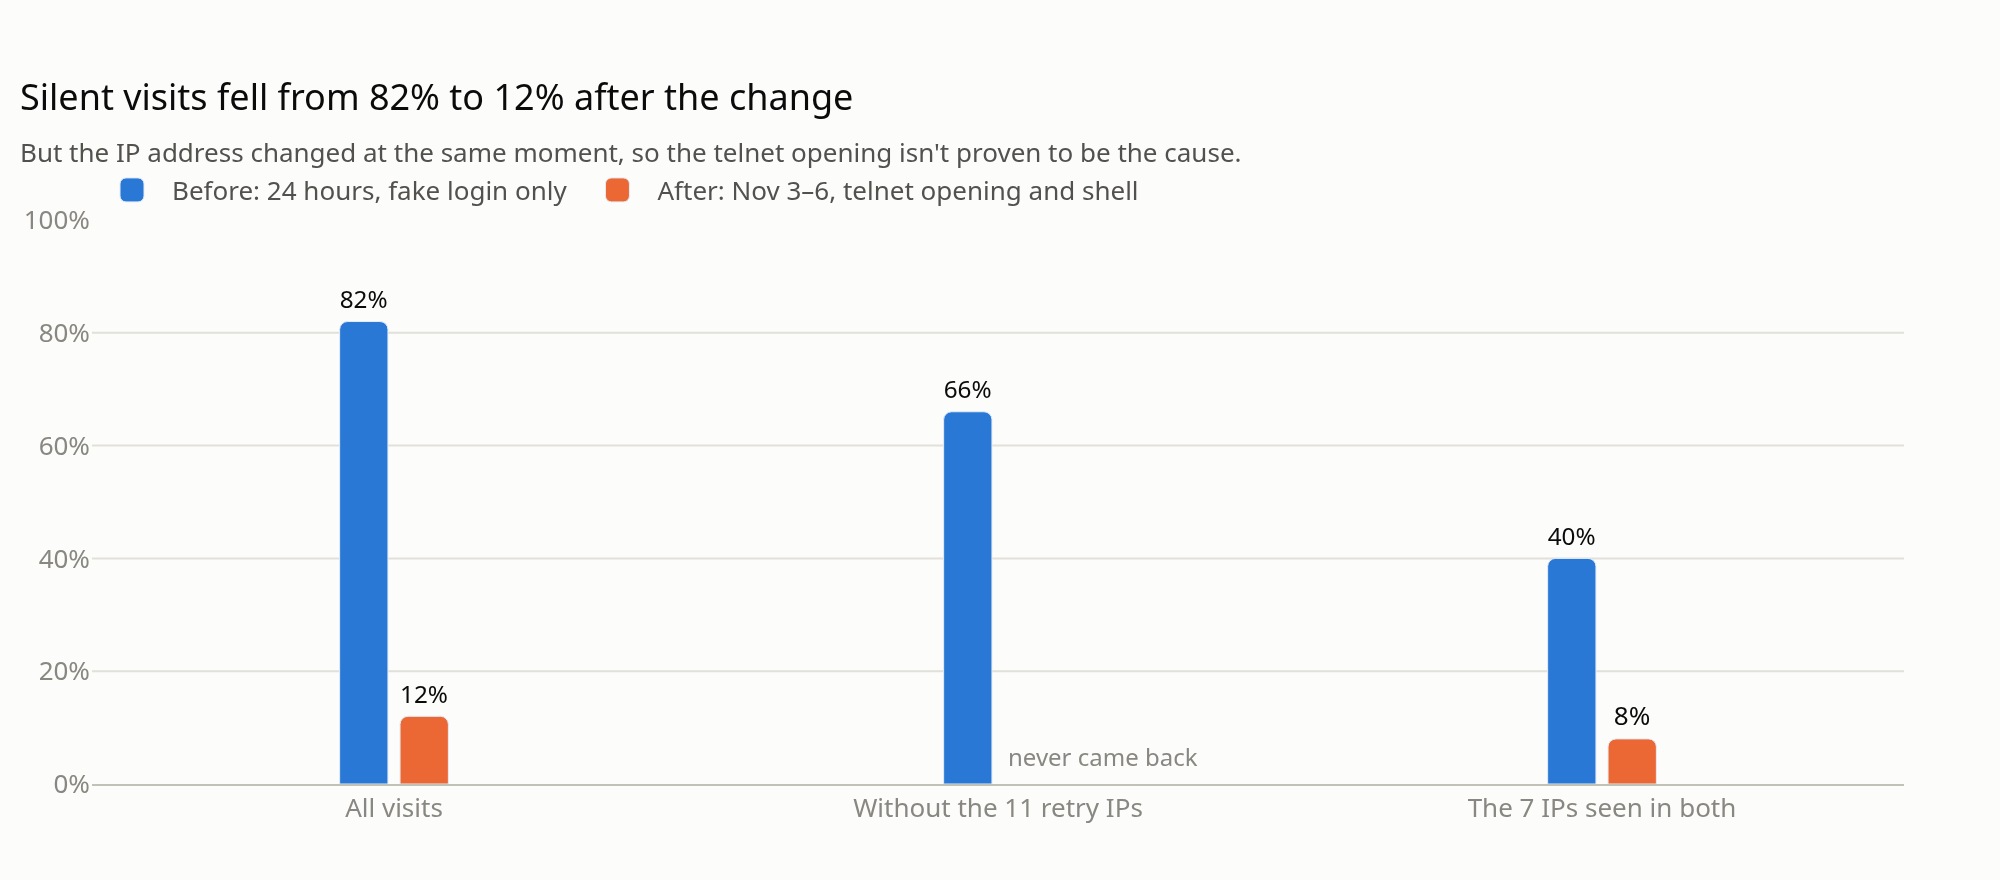
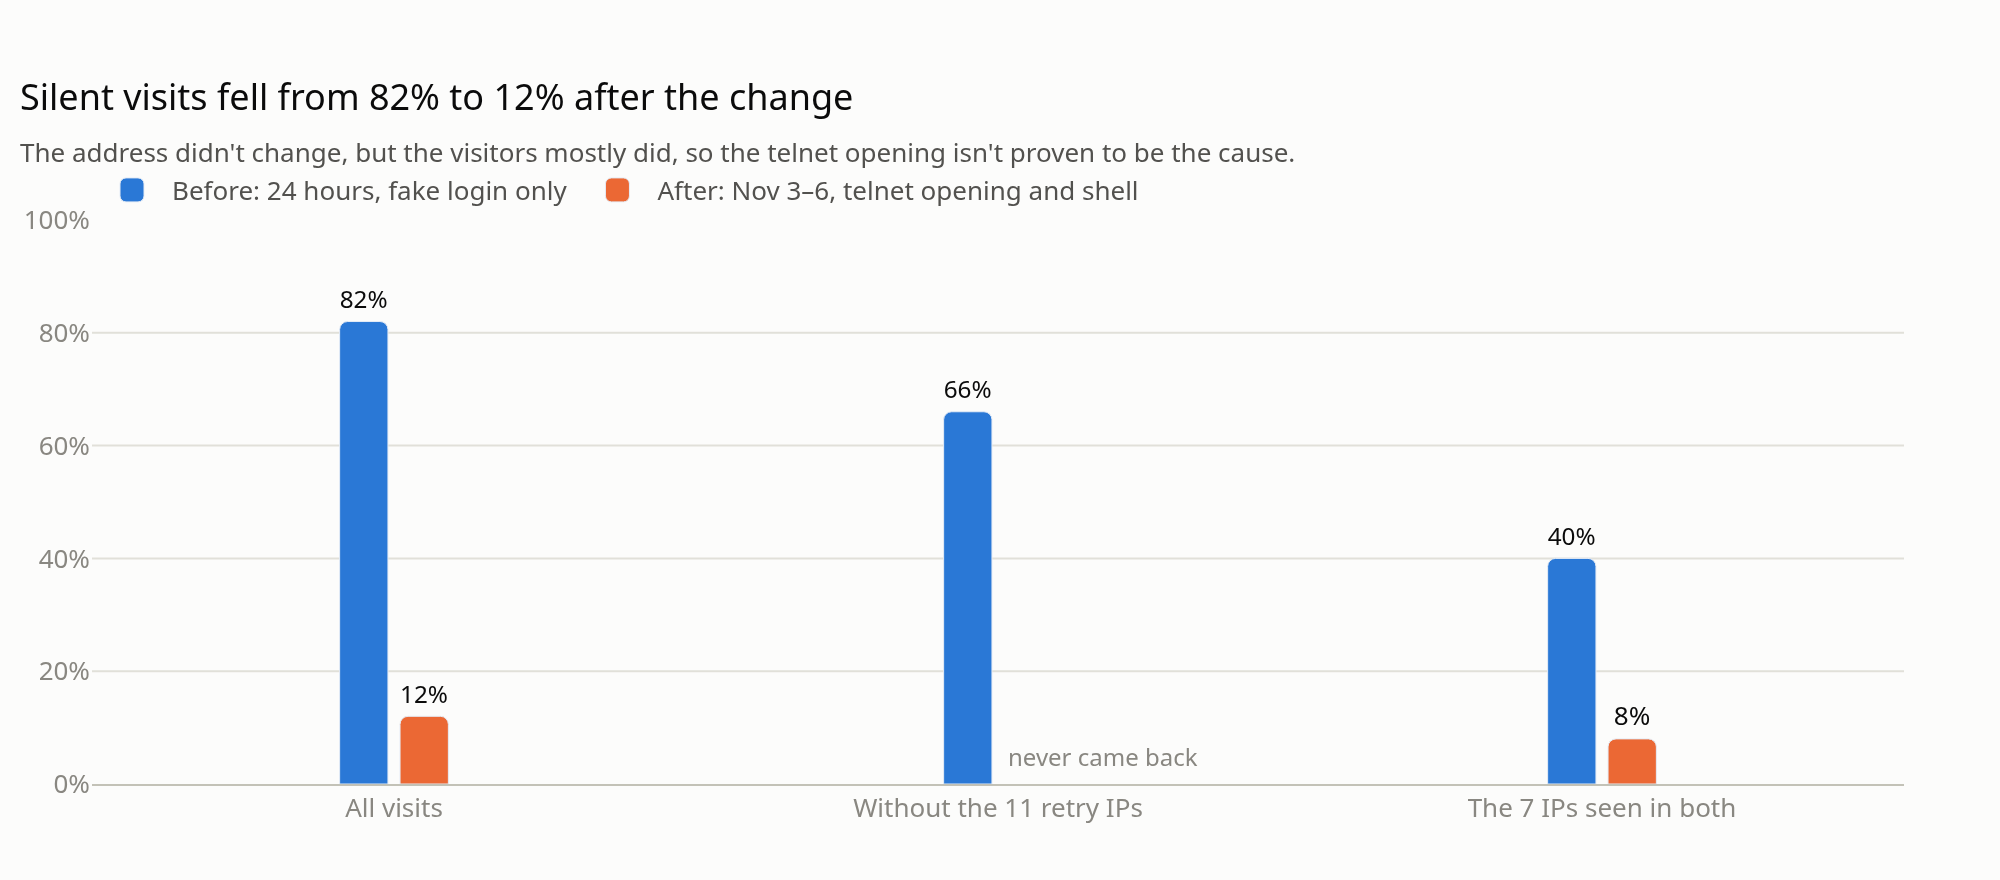
Correct the honeypot page's claim that the IP address changed (#29)
The server kept the same public address through the reinstall, so the
caveat on the telnet-opening result is visitor turnover and a one-day
baseline, not a change of address. Reword the summary, the caveat, and
chart 2's alt text and caption, and replace charts 2 and 3 (both themes)
with the re-exported versions from Rust-Honeypot's notebook.

Changed region(s): [[0.0, 0.1534, 0.651, 0.1841]]

diff --git a/site/honeypot/index.html b/site/honeypot/index.html
@@ -66,7 +66,7 @@
     <ul class="prose">
       <li><b>What I built:</b> a medium-interaction telnet honeypot in Rust, run on Google Cloud for 86 hours. 18 common factory-default logins get into a shell that's entirely fake. Every reply is fixed text compiled into the program, and nothing a visitor sends is ever run or fetched.</li>
       <li><b>What I found:</b> 481 of 2,450 connections logged in and sent 1,772 commands, including 13 attempts to download and run malware. None of them produced an outbound connection. Most bots followed the same playbook, mapped below to MITRE ATT&amp;CK.</li>
-      <li><b>What it shows:</b> a fixed-reply shell is safe but easy to spot. Almost every bot that checked for its own marker word left before the payload stage. Silent visitors fell from 82% to 12% after the server began opening with telnet negotiation, but the IP address changed at the same moment, so that cause isn't proven.</li>
+      <li><b>What it shows:</b> a fixed-reply shell is safe but easy to spot. Almost every bot that checked for its own marker word left before the payload stage. Silent visitors fell from 82% to 12% after the server began opening with telnet negotiation. The IP address stayed the same, but almost none of the earlier visitors came back and the baseline is one day, so that cause isn't proven.</li>
     </ul>
   </section>
 
@@ -144,15 +144,15 @@
       </picture>
     </figure>
     <div class="callout">
-      <p><b>The caveat.</b> Turning on the shell meant reinstalling the server, which gave it a new IP address. None of the 11 retry IPs ever found the new address, and only 7 of the 117 IPs from the day before were seen again. Those 7 point the same way, but 7 is too few to prove it, and the baseline is a single day. The opening is the likeliest cause of the drop, but this setup can't separate it from the new address.</p>
+      <p><b>The caveat.</b> Turning on the shell meant reinstalling the server, but it kept the same IP address, so a change of address doesn't explain the drop. The visitors did change: only 7 of the 117 IPs from the day before were seen again. Those 7 went from 40% to 8% silent, which points the same way, but 7 is too few to prove it, and the baseline is a single day. The 11 retry IPs never came back to the same address, so for the bots that prompted the change, it's untested. The opening is the likeliest cause of the drop, but this setup can't rule out the change in visitors.</p>
     </div>
     <figure class="figure">
       <picture>
         <source srcset="/honeypot/2-visits-per-hour-light.png" media="(prefers-color-scheme: light)">
         <img src="/honeypot/2-visits-per-hour-dark.png" width="2000" height="840" loading="lazy"
-             alt="Line chart of visits per hour from Nov 2 to Nov 6, with a line marking the change on Nov 3 at 01:29 UTC, when the telnet opening and fake shell went live on a new IP address.">
+             alt="Line chart of visits per hour from Nov 2 to Nov 6, with a line marking the change on Nov 3 at 01:29 UTC, when the telnet opening and fake shell went live.">
       </picture>
-      <figcaption>Visits per hour, UTC. The vertical line is the change, when the telnet opening and fake shell went live on the new address.</figcaption>
+      <figcaption>Visits per hour, UTC. The vertical line is the change, when the telnet opening and fake shell went live.</figcaption>
     </figure>
   </section>
 
